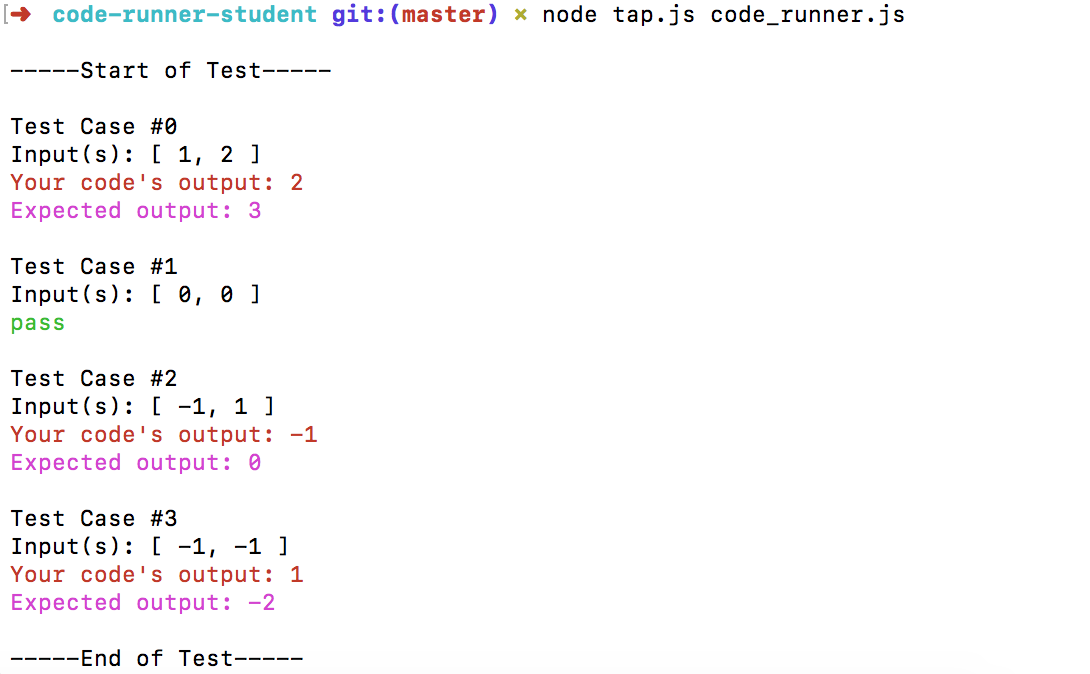
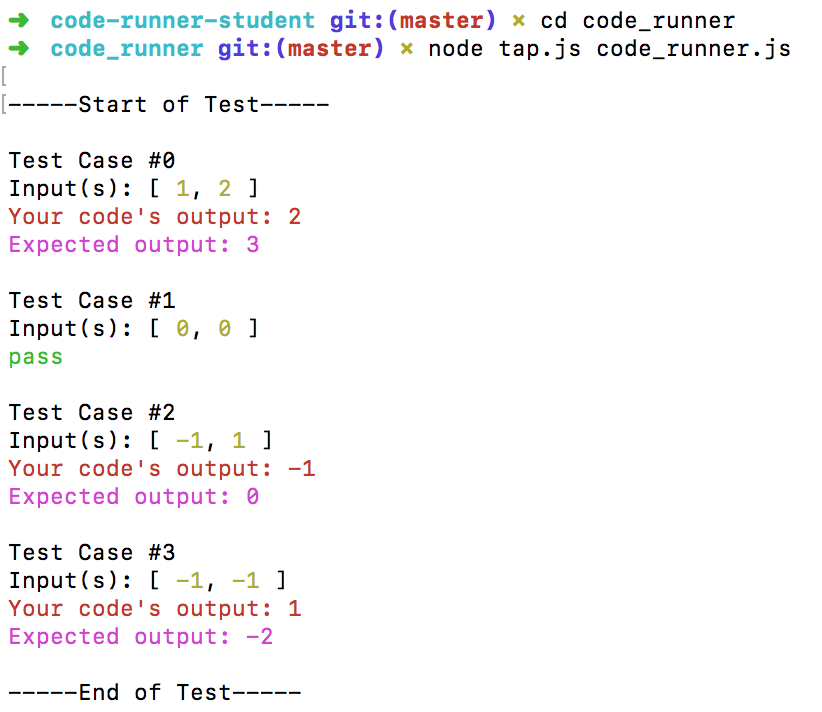
Update folders

diff --git a/code_runner/code_runner.js b/code_runner/code_runner.js
@@ -1,7 +1,7 @@
 // assign the tape library to the variable "test"
 var testCode = require('tape');
 var unitTest = require("./unit_test");  // Unit tests
-var student = require("./problem");             // Written function
+var student = require("../problem");    // Written function
 
 
 testCode(unitTest.testCodeString, { timeout: 10000 }, function (t) {

diff --git a/README.md b/README.md
@@ -14,7 +14,7 @@ A code runner, which uses the Tape.js unit-testing framework, that allows an ind
 
 <a name="mechanism"></a>
 ## How It Works
-The `mainFunc` (where the students write the function solution) in the `module.exports` object and the unit tests are passed into the `Tape.js` driver *"code_runner.js"*. The driver runs the `mainFunc` against the unit tests, and the output of the unit-testing is formatted by *"tap.js"* before it is displayed on the Command Line Interface.<br><br>
+The `mainFunc` (where the students write the function solution) in the `module.exports` object and the unit tests are passed into the `Tape.js` driver *"code_runner/code_runner.js"*. The driver runs the `mainFunc` against the unit tests, and the output of the unit-testing is formatted by *"code_runner/tap.js"* before it is displayed on the Command Line Interface.<br><br>
 ![System](https://github.com/The-Last-Mile-JS/code-runner-student/blob/master/assets/overall_view.png)
 
 <a name="dependencies"></a>
@@ -30,25 +30,26 @@ Ensure that the below dependencies are installed through `npm`.
 ### Inclusion of Code Runner into Problem Folder
 Inside the problem folder, there should be four files:
 1. *problem.js*: Contains the problem and empty space for student's codes
-2. *code_runner.js*: Driver of unit-tests
-3. *tap.js*: Used for formatting the result in the command line
-4. *unit_test.js*: Unit tests for students' codes
+2. *code_runner/code_runner.js*: Driver of unit-tests
+3. *code_runner/tap.js*: Used for formatting the result in the command line
+4. *code_runner/unit_test.js*: Unit tests for students' codes
 
 <a name="modification"></a>
 ### What to Modify?
-1. *unit_test.js*: Change the description of the unit tests, test cases and the expected results in the `module.exports` object.
-2. *code_runner.js*: Depending on the test cases (arguments) and the expected results, modify the line that equates expected answers to student code's output  `t.equal(unitTest.answers[index], student.mainFunc(unitTest.testCases[index][0], unitTest.testCases[index][1]));`.
+1. *code_runner/unit_test.js*: Change the description of the unit tests, test cases and the expected results in the `module.exports` object.
+2. *code_runner/code_runner.js*: Depending on the test cases (arguments) and the expected results, modify the line that equates expected answers to student code's output  `t.equal(unitTest.answers[index], student.mainFunc(unitTest.testCases[index][0], unitTest.testCases[index][1]));`.
 
 <a name="usage"></a>
 ## Usage (Student)
 
 <a name="commands"></a>
 ### Commands
-After writing the codes in the *"problem.js"* file and calling `node tap.js code_runner.js` on his command line, the student will see the report in his CLI.<br>
+After writing the codes in the *"problem.js"* file, entering the directory *code_runner* and calling `node tap.js code_runner.js
+` on his command line, the student will see the report in his CLI.<br>
 ![Output](https://github.com/The-Last-Mile-JS/code-runner-student/blob/master/assets/Output.png)
 
 <a name="unitTestCustomization"></a>
 ### Customizing Unit Tests
-The student can go to *"unit_test.js"* and modify two fields of `module.exports` object:
+The student can go to *"code_runner/unit_test.js"* and modify two fields of `module.exports` object:
 1. test cases in the `testCases` field
 2. expected outputs in the `answers` field
